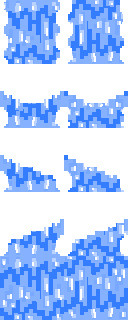
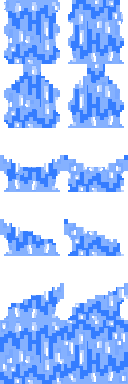
Added Water Animation

diff --git a/block.h b/block.h
@@ -279,26 +279,32 @@ class WaterBlock : public Block
                     anim = create_animation(water_script, "WaterFlow");
                     break;
                 }
-                case 2: {}
-                case 3: 
+                case 2:
+                case 3:
                 {
-                    anim = create_animation(water_script, "WaterTwoSide");
+                    anim = create_animation(water_script, "WaterTop");
                         break;
                 }
                 case 4: {}
                 case 5: 
                 {
-                    anim = create_animation(water_script, "WaterLeft");
+                    anim = create_animation(water_script, "WaterTwoSide");
                         break;
                 }
                 case 6: {}
                 case 7: 
                 {
-                    anim = create_animation(water_script, "WaterRight");
+                    anim = create_animation(water_script, "WaterLeft");
                         break;
                 }
                 case 8: {}
                 case 9: 
+                {
+                    anim = create_animation(water_script, "WaterRight");
+                        break;
+                }
+                case 10: {}
+                case 11: 
                 {
                     anim = create_animation(water_script, "WaterLake");
                         break;
